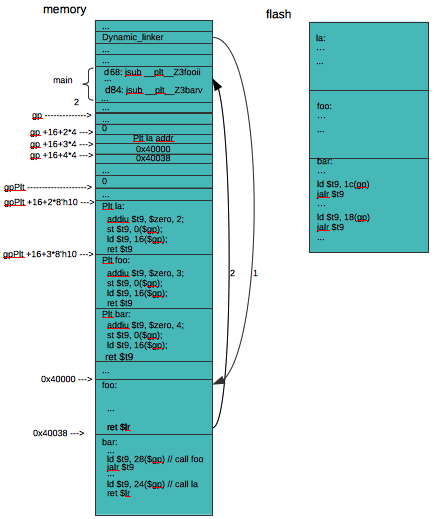
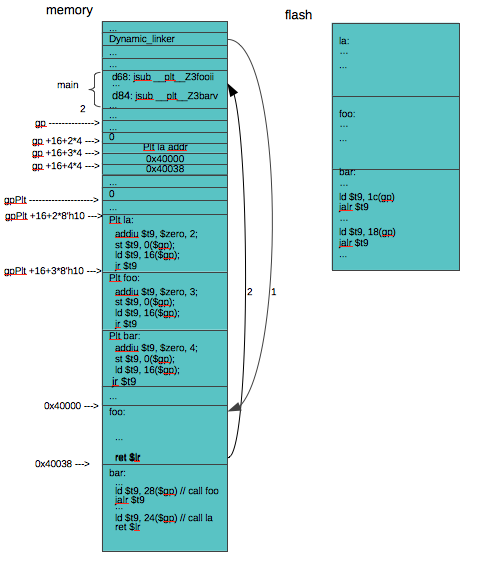
Dynamic linker change display from ret $t9 to jr $t9

diff --git a/exlbt/llvm-objdump/elf2hex.h b/exlbt/llvm-objdump/elf2hex.h
@@ -13,6 +13,9 @@
 
 #include <stdio.h>
 #include "llvm/Support/raw_ostream.h"
+
+#define BOOT_SIZE 16
+
 #define DLINK
 //#define ELF2HEX_DEBUG
 
@@ -70,8 +73,6 @@ static void Fill0s(uint64_t startAddr, uint64_t endAddr) {
   std::size_t addr;
 
   assert((startAddr <= endAddr) && "startAddr must <= BaseAddr");
-  // Fill /*address*/ bytes is odd for 4 by 00 
-  outs() << format("/*%8" PRIx64 " */", startAddr);
   // Fill /*address*/ 00 00 00 00 for 4 bytes alignment (1 Cpu0 word size)
   for (addr = startAddr; addr < endAddr; addr += 4) {
     outs() << format("/*%8" PRIx64 " */", addr);
@@ -566,7 +567,7 @@ static void Elf2Hex(const ObjectFile *o) {
       fd_plt_offset << format("%08" PRIx64 " ", pltOffset);
     }
   #endif
-    lastDumpAddr = 16;
+    lastDumpAddr = BOOT_SIZE;
     Fill0s(lastDumpAddr, 0x100);
     lastDumpAddr = 0x100;
     DisassembleObjectInHexFormat(o, DisAsm, IP, lastDumpAddr, STI);

diff --git a/exlbt/lld/lib/ReaderWriter/ELF/Cpu0/Cpu0RelocationPass.cpp b/exlbt/lld/lib/ReaderWriter/ELF/Cpu0/Cpu0RelocationPass.cpp
@@ -47,7 +47,7 @@ const uint8_t cpu0elBootAtomContent[16] = {
 };
 
 // .got values
-const uint8_t cpu0GotAtomContent[16] = { 0 };
+const uint8_t cpu0GotAtomContent[32] = { 0 };
 
 #ifdef DLINKER
 // .plt value (entry 0), big endian
@@ -110,7 +110,7 @@ public:
   Cpu0GOTAtom(const File &f, StringRef secName) : GOTAtom(f, secName) {}
 
   ArrayRef<uint8_t> rawContent() const override {
-    return ArrayRef<uint8_t>(cpu0GotAtomContent, 16);
+    return ArrayRef<uint8_t>(cpu0GotAtomContent, 32);
   }
 };
 

diff --git a/source/lld.rst b/source/lld.rst
@@ -1223,13 +1223,13 @@ After run build-dlinker.sh, the following files are created.
 
   /*__plt__Z3barv:*/
   /*      20:*/	01 6b 00 24                                  /* ld	$t9, 36($gp)
-  /*      24:*/	3c 60 00 00                                  /*	ret	$t9*/
+  /*      24:*/	3c 60 00 00                                  /*	jr	$t9*/
   /*      28:*/	00 00 00 00                                  /*	nop*/
   /*      2c:*/	00 00 00 00                                  /*	nop*/
 
   /*__plt__Z3fooii:*/
   /*      30:*/	01 6b 00 1c                                  /* ld	$t9, 28($gp)
-  /*      34:*/	3c 60 00 00                                  /*	ret	$t9*/
+  /*      34:*/	3c 60 00 00                                  /*	jr	$t9*/
   /*      38:*/	00 00 00 00                                  /*	nop*/
   /*      3c:*/	00 00 00 00                                  /*	nop*/
   ...
@@ -1243,7 +1243,7 @@ After run build-dlinker.sh, the following files are created.
   ...
   /*     d9c:*/	3b ff f3 0c                                  /*	jsub	16773900*/ // call printf()
   ...
-  /*     db8:*/	3c e0 00 00                                  /*	ret	$lr*/
+  /*     db8:*/	3c e0 00 00                                  /*	jr	$lr*/
   ...
   /*Contents of section .data:*/
   /*20a8 */00 00 00 01  00 00 00 01  00 00 00 01  00 00 00 01 /*  ................*/
@@ -1372,16 +1372,16 @@ $zero, 4($gp); st $t9, 0($gp); ld $t9, 16($gp); ret $t9" as follows,
   // gpPlt+16+1*8'h10 ----------------> | addiu $t9, $zero, 4             |
   //                                    | st  $t9, 0($gp)                 |
   //                                    | ld  $t9, 16($gp)                |
-  //                                    | ret $t9                         |
+  //                                    | jr $t9                         |
   // gpPlt+16+2*8'h10 ----------------> | addiu $t9, $zero, 4             |
   //                                    | st  $t9, 0($gp)                 |
   //                                    | ld  $t9, 16($gp)                |
-  //                                    | ret $t9                         |
+  //                                    | jr $t9                         |
   // ...                                | ...                             |
   // gpPlt+16+(6-1)*8'h10 ------------> | addiu $t9, $zero, 4             |
   //                                    | st  $t9, 0($gp)                 |
   //                                    | ld  $t9, 16($gp)                |
-  //                                    | ret $t9                         |
+  //                                    | jr $t9                         |
   //                                    -----------------------------------
 
 
@@ -1414,8 +1414,9 @@ library by the value of 0(\$gp) which is 3 now (set in "Plt foo:"). The value
 3 tells dynamic linker loading foo() (3rd string in .dynstr) from offset of 
 shared library, 0x3c (3rd value of Function offset area in Figure).
 Now, dynamic linker can load foo() function from flash to memory, set the 
-address gp+3*4 to 0x40000 where the address 0x40000 is the memory address of 
-foo() function loaded to, and then prepare jump to the foo() memory address. 
+address gp+16+3*4(=gp+28) to 0x40000 where the address 0x40000 is the memory 
+address of foo() function loaded to, and then prepare jump to the foo() memory 
+address. 
 Remind we say the prepare jump to foo(). Because before jump to foo(), dynamic 
 linker needs to restore the \$lr, \$fp, \$sp to the 
 value of just before caller calling foo() (they are saved in 4, 8, 12 of \$gp 
@@ -1450,9 +1451,9 @@ Now the program run at the next instruction of call foo() in main() as
 to address 0xd8 "jsub __plt__Z3barv", the control flow will transfer from 
 main through __plt_Z3barv, "Plt bar:" and PLT0 to dynamic linker as 
 :num:`Figure #lld-f9` depicted. Then load and run bar() from flash to memory 
-just like the calling __plt__Z3fooii as :num:`Figure #lld-f10` depicted. 
+as :num:`Figure #lld-f10` depicted. It just like the calling __plt__Z3fooii.
 The difference is bar() will call foo() first and call la() next. 
-The call foo() in bar() will jump to foo() directly as :num:`Figure #lld-f9` 
+The call foo() in bar() will jump to foo() directly as :num:`Figure #lld-f10` 
 because the content of gp+28 is the address of 0x40000 which
 set in dynamic linker when the first time of foo() function is called. 
 
